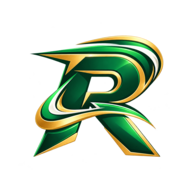
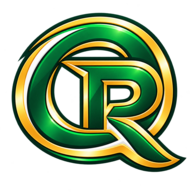
versão atualizada treinador 7

diff --git a/src/componentes/autenticacao/TelasAutenticacao.jsx b/src/componentes/autenticacao/TelasAutenticacao.jsx
@@ -4,22 +4,22 @@ import { AlternadorTema } from "../comuns/ComponentesComuns";
 import { PASSWORD_MIN_LENGTH } from "../../utilitarios/seguranca";
 
 const mascotSrc = `${import.meta.env.BASE_URL}assets/mascote-resenha.webp`;
-const brandIconSrc = `${import.meta.env.BASE_URL}assets/logo-resenha.webp`;
+const brandLogoSrc = `${import.meta.env.BASE_URL}assets/logo-qresenha.webp`;
 const authSlides = [
-  { src: mascotSrc, alt: "Mascote esportivo do Resenha", type: "mascot" },
+  { src: mascotSrc, alt: "Mascote esportivo do QResenha", type: "mascot" },
   {
     src: `${import.meta.env.BASE_URL}assets/ranking-futebol.webp`,
-    alt: "Equipe de futebol do Resenha",
+    alt: "Equipe de futebol do QResenha",
     type: "team",
   },
   {
     src: `${import.meta.env.BASE_URL}assets/ranking-volei.webp`,
-    alt: "Equipe de vôlei do Resenha",
+    alt: "Equipe de vôlei do QResenha",
     type: "team",
   },
   {
     src: `${import.meta.env.BASE_URL}assets/ranking-basquete.webp`,
-    alt: "Equipe de basquete do Resenha",
+    alt: "Equipe de basquete do QResenha",
     type: "team",
   },
 ];
@@ -79,13 +79,8 @@ export function TelaAutenticacao({
       <AlternadorTema theme={theme} setTheme={setTheme} className="auth-theme" />
       <section className="auth-hero">
         <div className="auth-brand">
-          <span className="brand-mark mascot-brand-mark">
-            <img src={brandIconSrc} alt="" aria-hidden="true" />
-          </span>
-          <span>
-            <strong>Resenha</strong>
-            <small>Organização completa do jogo</small>
-          </span>
+          <img className="auth-brand-logo" src={brandLogoSrc} alt="QResenha" />
+          <small>Organização completa do jogo</small>
         </div>
         <div className="auth-stage">
           <AuthSportCarousel />
@@ -225,19 +220,14 @@ export function TelaRecuperacaoSenha({
       <AlternadorTema theme={theme} setTheme={setTheme} className="auth-theme" />
       <section className="auth-hero">
         <div className="auth-brand">
-          <span className="brand-mark mascot-brand-mark">
-            <img src={brandIconSrc} alt="" aria-hidden="true" />
-          </span>
-          <span>
-            <strong>Resenha</strong>
-            <small>Recuperação de acesso</small>
-          </span>
+          <img className="auth-brand-logo" src={brandLogoSrc} alt="QResenha" />
+          <small>Recuperação de acesso</small>
         </div>
         <div className="auth-stage recovery-stage">
           <img
             className="auth-mascot recovery-mascot"
             src={mascotSrc}
-            alt="Mascote esportivo do Resenha"
+            alt="Mascote esportivo do QResenha"
             width="720"
             height="810"
           />

diff --git a/index.html b/index.html
@@ -6,20 +6,30 @@
     <meta name="theme-color" content="#0d8f67" />
     <meta
       name="description"
-      content="Resenha: times equilibrados, placar ao vivo e desempenho dos jogadores."
+      content="QResenha: organização de grupos esportivos, times, placar ao vivo e desempenho dos jogadores."
     />
     <meta name="referrer" content="strict-origin-when-cross-origin" />
     <meta
       http-equiv="Content-Security-Policy"
       content="default-src 'self'; script-src 'self'; style-src 'self' 'unsafe-inline'; img-src 'self' data: blob:; connect-src 'self' https://*.supabase.co wss://*.supabase.co; font-src 'self' data:; object-src 'none'; frame-src 'none'; base-uri 'self'; form-action 'self'; upgrade-insecure-requests"
     />
-    <link rel="icon" type="image/png" href="./favicon.png?v=2180" />
-    <link rel="apple-touch-icon" href="./icon-192.png?v=2180" />
-    <link rel="manifest" href="./site.webmanifest?v=2180" />
+    <link rel="canonical" href="https://www.qresenha.com.br/" />
+    <meta property="og:type" content="website" />
+    <meta property="og:site_name" content="QResenha" />
+    <meta property="og:title" content="QResenha" />
+    <meta
+      property="og:description"
+      content="Organize grupos, partidas, placares e rankings esportivos."
+    />
+    <meta property="og:url" content="https://www.qresenha.com.br/" />
+    <meta property="og:image" content="https://www.qresenha.com.br/icon-512.png" />
+    <link rel="icon" type="image/png" sizes="64x64" href="/favicon.png?v=2221" />
+    <link rel="apple-touch-icon" href="/icon-192.png?v=2221" />
+    <link rel="manifest" href="/site.webmanifest?v=2221" />
     <meta name="mobile-web-app-capable" content="yes" />
     <meta name="apple-mobile-web-app-capable" content="yes" />
     <meta name="apple-mobile-web-app-status-bar-style" content="black-translucent" />
-    <title>Resenha</title>
+    <title>QResenha</title>
   </head>
   <body>
     <div id="root"></div>

diff --git a/src/componentes/estrutura/EstruturaAplicativo.jsx b/src/componentes/estrutura/EstruturaAplicativo.jsx
@@ -20,8 +20,8 @@ import {
 
 import { AvatarPerfil } from "../comuns/ComponentesComuns";
 
-const brandIconSrc = `${import.meta.env.BASE_URL}assets/logo-resenha.webp`;
-const developerEmblemSrc = `${import.meta.env.BASE_URL}assets/logo-resenha.webp`;
+const brandIconSrc = `${import.meta.env.BASE_URL}assets/icone-qresenha.webp`;
+const developerEmblemSrc = `${import.meta.env.BASE_URL}assets/icone-qresenha.webp`;
 
 const navigation = [
   { id: "setup", icon: Users, title: "Preparar jogo", detail: "Presença e divisão dos times" },
@@ -64,7 +64,7 @@ export function BarraSuperior({
           <img src={brandIconSrc} alt="" aria-hidden="true" />
         </span>
         <span>
-          <strong>Resenha</strong>
+          <strong>QResenha</strong>
           <small>Organização para cada partida.</small>
         </span>
       </button>
@@ -310,7 +310,7 @@ function ProfileAction({ className = "", icon: Icon, title, detail, onClick }) {
 export function RodapeSite() {
   return (
     <footer className="site-footer">
-      <strong>Resenha</strong>
+      <strong>QResenha</strong>
       <div className="footer-developer">
         <img src={developerEmblemSrc} alt="" aria-hidden="true" />
         <span>

diff --git a/src/PaginaPublica.jsx b/src/PaginaPublica.jsx
@@ -36,7 +36,7 @@ const rankingArtwork = {
   volleyball: `${import.meta.env.BASE_URL}assets/ranking-volei.webp`,
   basketball: `${import.meta.env.BASE_URL}assets/ranking-basquete.webp`,
 };
-const brandLogo = `${import.meta.env.BASE_URL}assets/logo-resenha.webp`;
+const brandLogo = `${import.meta.env.BASE_URL}assets/icone-qresenha.webp`;
 
 function eventLabel(event, sport) {
   const point =
@@ -578,13 +578,13 @@ export default function PaginaPublica({ slug }) {
           </article>
         </div>
         <p className="scoring-guide-note">
-          Para equilibrar os times, o Resenha combina 70% da média das últimas partidas com 30% da
+          Para equilibrar os times, o QResenha combina 70% da média das últimas partidas com 30% da
           média geral estabilizada. Assim, uma atuação isolada pesa, mas não distorce todo o
           histórico.
         </p>
       </section>
       <footer className="site-footer">
-        <strong>Resenha</strong>
+        <strong>QResenha</strong>
         <span>Criado e desenvolvido por Adriel Alves Quintava.</span>
         <small>Projeto em evolução — feito para a resenha ficar ainda melhor.</small>
       </footer>

diff --git a/src/paginas/AplicativoResenha.jsx b/src/paginas/AplicativoResenha.jsx
@@ -161,7 +161,7 @@ import {
 } from "../servicoDados";
 
 const PaginaPublica = lazy(() => import("../PaginaPublica"));
-const brandIconSrc = `${import.meta.env.BASE_URL}assets/logo-resenha.webp`;
+const brandIconSrc = `${import.meta.env.BASE_URL}assets/icone-qresenha.webp`;
 const appBaseUrl = new URL(import.meta.env.BASE_URL, window.location.href).href;
 
 const monthlyDueDate = (month, dueDay) => {
@@ -2839,7 +2839,7 @@ export default function AplicativoResenha() {
           </section>
         ) : (
           <div className="startup-loading">
-            <RefreshCw className="spin" size={24} /> Preparando o Resenha…
+            <RefreshCw className="spin" size={24} /> Preparando o QResenha…
           </div>
         )}
       </main>

diff --git a/src/main.jsx b/src/main.jsx
@@ -15,7 +15,7 @@ class AppErrorBoundary extends React.Component {
   }
 
   componentDidCatch(error) {
-    console.error("Falha ao iniciar o Resenha:", error);
+    console.error("Falha ao iniciar o QResenha:", error);
   }
 
   render() {
@@ -23,7 +23,7 @@ class AppErrorBoundary extends React.Component {
     return (
       <main className="fatal-error" role="alert">
         <section>
-          <strong>Resenha</strong>
+          <strong>QResenha</strong>
           <h1>Não foi possível abrir o aplicativo</h1>
           <p>Recarregue a página. Seus jogadores e históricos continuam protegidos.</p>
           <button type="button" onClick={() => window.location.reload()}>

diff --git a/src/styles.css b/src/styles.css
@@ -2360,6 +2360,18 @@ body,
   top: 30px;
   left: clamp(40px, 7vw, 110px);
 }
+.auth-brand-logo {
+  display: block;
+  width: clamp(150px, 17vw, 230px);
+  height: auto;
+  object-fit: contain;
+}
+.auth-brand > small {
+  max-width: 150px;
+  color: rgba(255, 255, 255, 0.76);
+  font-size: 0.75rem;
+  line-height: 1.35;
+}
 .auth-brand .brand-mark {
   background: #fff;
   color: #0b7155;

diff --git a/vite.config.js b/vite.config.js
@@ -3,7 +3,7 @@ import react from "@vitejs/plugin-react";
 
 export default defineConfig({
   plugins: [react()],
-  // Caminhos relativos funcionam no GitHub Pages, em domínio próprio e após renomear o repositório.
-  base: "./",
+  // O domínio próprio publica o aplicativo diretamente na raiz.
+  base: "/",
   server: { port: 5173, open: true },
 });

diff --git a/ATUALIZAR_V216.md b/ATUALIZAR_V216.md
@@ -1,0 +1,43 @@
+# Resenha 2.16.2 — ficha simplificada e modalidades isoladas
+
+## Ficha do atleta
+
+- Navegação em três abas: Dados do aluno, Saúde e segurança e Mensalidade.
+- Data de nascimento calcula a idade automaticamente.
+- Categoria selecionável entre grupos e categorias existentes.
+- A criação de grupos foi retirada da ficha; novos grupos são administrados na área própria.
+- Campo de experiência removido.
+- Telefone de emergência formatado como `(00) 00000-0000`.
+- PDFs em branco e preenchido não incluem mensalidades ou pagamentos.
+
+## Mensalidades
+
+- Filtros por ano, mês e status Pago/Pendente.
+- Novos alunos começam com a categoria de pagamento “Pagante”.
+- Resumo anual e ações rápidas preservados apenas no ambiente autenticado.
+
+## Modos e navegação
+
+- “Escolinha” renomeada para “Modo Treinador”.
+- Seletor transformado em botões visuais Amador/Treinador.
+- Modo Amador alterna as imagens das modalidades; Treinador usa o mascote.
+- Trocar modo ou grupo preserva a página atual.
+- Campeonato removido.
+- Notificações usam o mesmo emblema do crédito no rodapé.
+
+## Rankings
+
+- Pontos, cestas, gols e assistências são tratados conforme a modalidade.
+- Assistências e estatísticas de goleiro aparecem somente no futebol.
+- Cada modalidade mantém carreira, mês, partidas e link público próprios.
+- No Modo Treinador, a presença acrescenta `+0,20` à avaliação da partida.
+- Modalidades antigas ou inválidas salvas no navegador ou na nuvem são migradas automaticamente.
+
+## Atualização
+
+Preserve o `.env` e os _secrets_ do GitHub. Depois execute:
+
+```bash
+npm install
+npm run build
+```

diff --git a/PUBLICAR_QRESENHA.md b/PUBLICAR_QRESENHA.md
@@ -1,0 +1,46 @@
+# Publicação do QResenha
+
+Esta é a versão 2.22, anterior ao sistema de planos pagos, preparada para o domínio oficial.
+
+## 1. Substituir os arquivos no GitHub
+
+Substitua os arquivos do repositório pelos arquivos desta pasta. Não envie `node_modules` nem
+`dist`; o GitHub Actions gera o site automaticamente.
+
+## 2. Conferir o GitHub Pages
+
+Em **Settings → Pages**:
+
+- selecione **GitHub Actions** em _Source_;
+- informe `www.qresenha.com.br` em _Custom domain_;
+- depois da validação do DNS, ative **Enforce HTTPS**.
+
+O arquivo `public/CNAME` já está configurado e será incluído automaticamente na publicação.
+
+## 3. Conferir os segredos
+
+Em **Settings → Secrets and variables → Actions**, mantenha:
+
+- `VITE_SUPABASE_URL`;
+- `VITE_SUPABASE_PUBLISHABLE_KEY`.
+
+Nunca coloque a chave `service_role` no GitHub ou no código do navegador.
+
+## 4. Autorizar o novo endereço no Supabase
+
+Em **Authentication → URL Configuration** use:
+
+- **Site URL:** `https://www.qresenha.com.br`;
+- **Redirect URLs:** `https://www.qresenha.com.br/**` e `https://qresenha.com.br/**`.
+
+O endereço local `http://localhost:5173/**` pode permanecer autorizado para desenvolvimento.
+
+## 5. Publicar
+
+```bash
+git add .
+git commit -m "Publica QResenha no domínio oficial"
+git push
+```
+
+Na aba **Actions**, aguarde o fluxo **Publicar no GitHub Pages** terminar com sucesso.

diff --git a/ATUALIZAR_V19.md b/ATUALIZAR_V19.md
@@ -1,0 +1,26 @@
+# Atualização para a versão 1.9
+
+> Correção 1.9.1: ajustada a ordem de inicialização do cronograma ativo, que podia interromper o React e deixar a página branca. Também foi adicionada uma tela de recuperação para erros inesperados.
+
+## Novas regras de avaliação
+
+- vitória: `+0,4`;
+- empate: `+0,2`;
+- derrota: `-0,2`;
+- gol contra: `-0,5`;
+- pênalti perdido: `-0,3`.
+
+O gol contra soma um gol ao adversário. O pênalti perdido não altera o placar. Os dois lances entram na súmula com jogador e minuto e podem ser anulados.
+
+## Atualização obrigatória do Supabase
+
+Esta versão adiciona dois tipos de evento ao banco. Depois de substituir os arquivos:
+
+1. abra o projeto no Supabase;
+2. acesse **SQL Editor**;
+3. copie todo o conteúdo de `supabase/schema.sql`;
+4. execute o script uma vez.
+
+O script apenas atualiza a restrição dos tipos de eventos e as funções do Mural. Jogadores, partidas e demais dados existentes não são apagados.
+
+No primeiro acesso, a versão do cálculo acumulado será atualizada automaticamente usando todo o histórico da conta.

diff --git a/ATUALIZAR_V219.md b/ATUALIZAR_V219.md
@@ -1,0 +1,25 @@
+# Atualização 2.19.0
+
+## Alterações
+
+- o compartilhamento envia a ficha de cadastro vazia para preenchimento;
+- o PDF completo continua disponível somente no botão de exportação da ficha já cadastrada;
+- fundo do símbolo “R” verde no tema claro e dourado no tema escuro;
+- classificação de futebol selecionável entre jogadores de linha e goleiros;
+- ranking de goleiros com jogos no gol, defesas, média de defesas e avaliação da função;
+- painel mensal de futebol inclui o ranking de defesas;
+- o destaque “Paredão” fica vazio quando nenhuma defesa foi registrada;
+- modo Amador exibe apenas o símbolo “R”, sem alternância de imagens;
+- botão “Adicionar grupo” alinhado ao tamanho do seletor de grupos.
+
+## Publicação
+
+Substitua os arquivos e execute:
+
+```bash
+npm install
+npm run build
+git add .
+git commit -m "Atualiza rankings e ficha de cadastro"
+git push
+```
